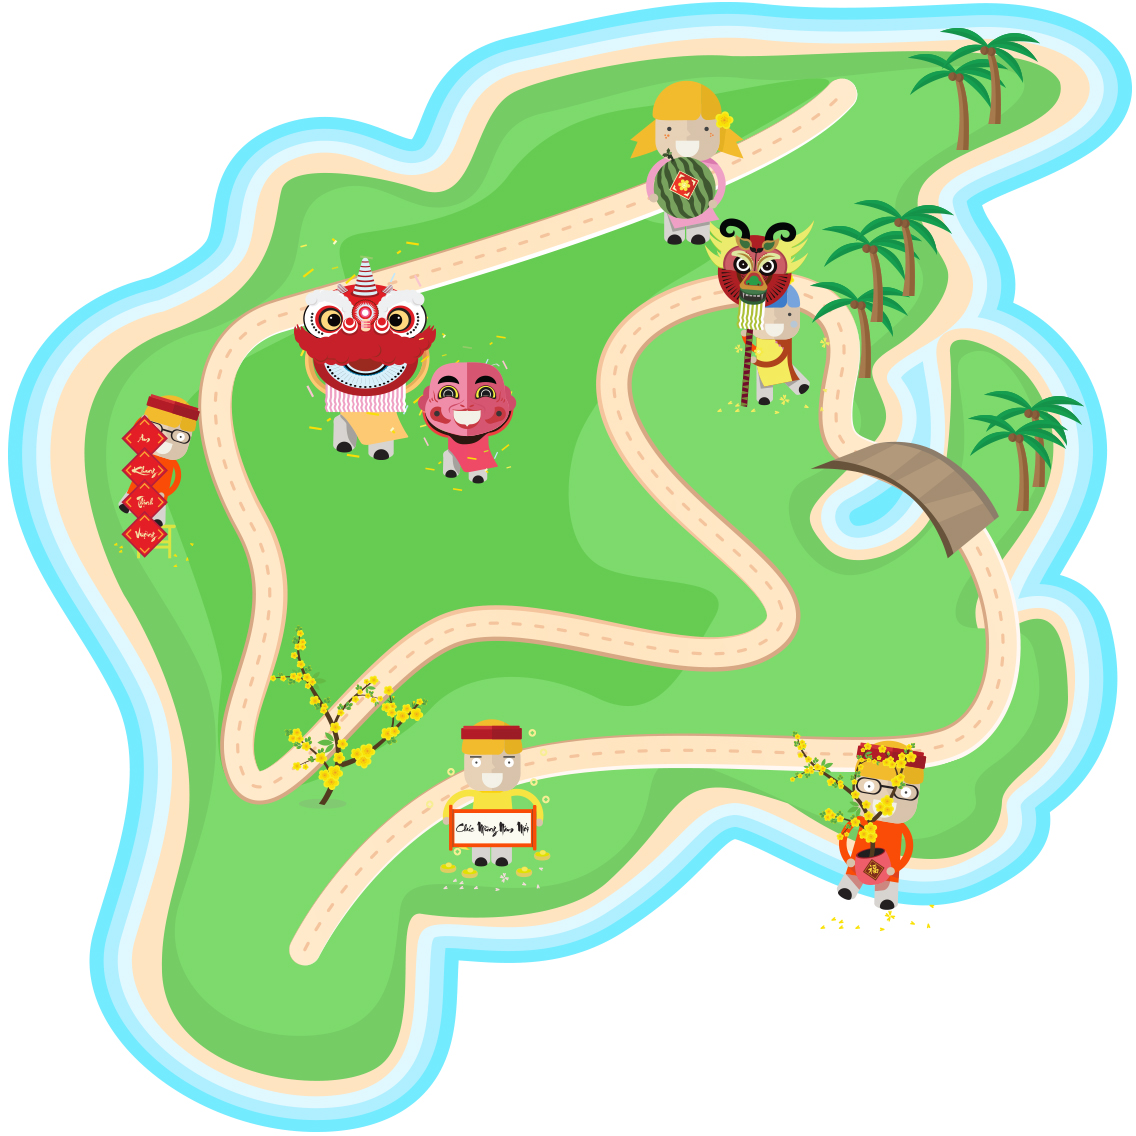
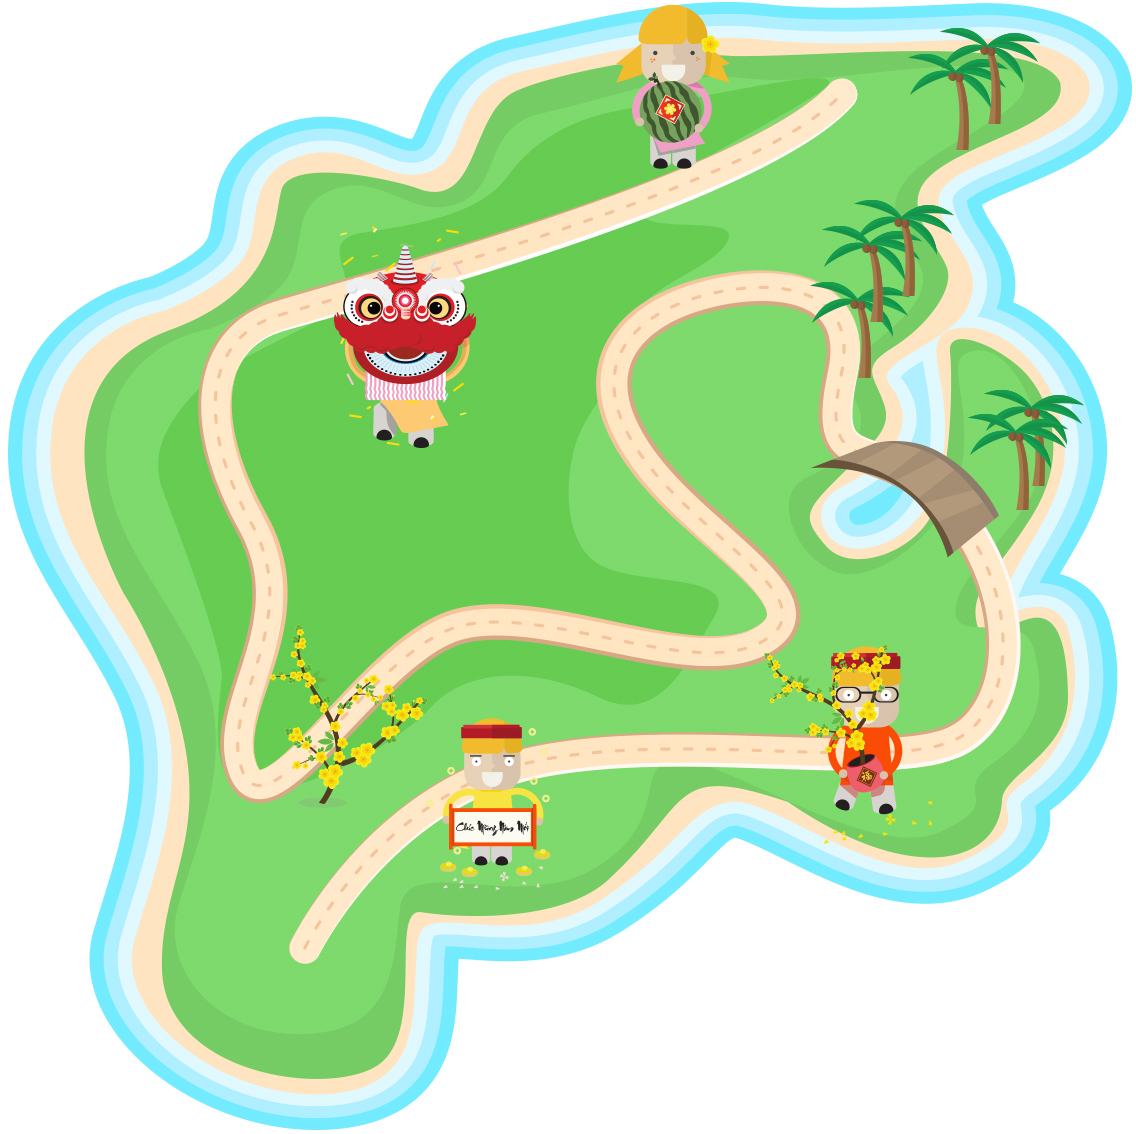
fix bug background and show modal congratulation

diff --git a/client/css/components/_page-game.scss b/client/css/components/_page-game.scss
@@ -233,6 +233,9 @@
 
 @media(max-width: 1000px) {
 	.game-play {
+		//width: 136%;
+		//margin-left: 18%;
+
 		width: 100%;
 	}
 
@@ -251,16 +254,17 @@
 
 	.game-intro-wrap {
 		width: 100%;
-		height: 10px;
+		position: absolute;
+		bottom: 0;
 	}
 
 	.button-controler {
 		position: absolute;
 		width: 150px;
 		height: 140px;
-		top: -128px;
 		display: inline-block;
 		right: 0;
+		bottom: 0;
 	}
 
 	.control-top, .control-left, .control-bottom, .control-right {
@@ -310,5 +314,26 @@
 
 	.intro-block-smartphone{
 		display: block;
+	}
+}
+
+@include media-query (palm) {
+
+	.game-play-mobile {
+		width: 136%;
+		margin-left: -18%;
+
+		//width: 100%;
+		height: 100%;
+		position: fixed;
+		top: 0;
+		left: 0;
+		&:after {
+			content: '';
+			display: inline-block;
+			vertical-align: middle;
+			margin-left: -5px;
+			height: 100%;
+		}
 	}
 }

diff --git a/client/templates/PageGame.js b/client/templates/PageGame.js
@@ -4,8 +4,9 @@
 var game = null;
 
 var completeGame = function(result) {
-	$('.modal-congratulation-level3').modal('show');
-	console.log('win result ' + result);
+	var mapLevel = Session.get('mapLevel');
+	$('.modal-congratulation-level'+mapLevel).modal('show');
+	console.log('win result ' + result, Session.get('mapLevel'));
 };
 
 Template.PageGame.rendered = function() {
@@ -23,7 +24,10 @@ Template.PageGame.helpers({
 		Meteor.call('map', mapId, function(error, result) {
 			//we parse the game and init the game
 			game = new window.chungapp.Game();
-			game.setJSONMapData(result, mapId);
+			game.setJSONMapData(result.map, mapId);
+			var mapLevel = result.mapLevel;
+			Session.set('mapLevel', mapLevel);
+
 			console.log('result', result);
 			game.startGame();
 

diff --git a/server/bootstrap.js b/server/bootstrap.js
@@ -18,8 +18,13 @@ Meteor.startup(function() {
 			}
 			var myJSON = JSON.parse(Assets.getText('maps/maps-config.json'));
 			if (myJSON && myJSON.maps && myJSON.maps[mapNumber].src) {
+				var mapLevel = myJSON.maps[mapNumber].mapLevel;
 				map = JSON.parse(Assets.getText(myJSON.maps[mapNumber].src));
-				return map;
+
+				return {
+					'map' : map,
+					'mapLevel' : mapLevel
+				};
 			}
 		}
 	});

diff --git a/client/css/custom/_page.game.scss b/client/css/custom/_page.game.scss
@@ -106,13 +106,24 @@
 		}
 	}
 
+	.map-grid {
+		width: 100%;
+		margin: auto;
+		display: inline-block;
+		vertical-align: middle;
+		position: relative;
+	}
+
 }
 
 @include media-query (palm) {
 
 	.map-grid {
-		width: 136%;
-		margin-left: -18%;
+		width: 100%;
+		margin: auto;
+		display: inline-block;
+		vertical-align: middle;
+		position: relative;
 		.social {
 			right: 15%;
 		}

diff --git a/client/css/components/_map-chosing.scss b/client/css/components/_map-chosing.scss
@@ -117,8 +117,12 @@
 }
 @include media-query (portable) {
 	.map-wrap {
-		width: 100%;
-		margin-top: 0;
+		width: 70%;
+
+		margin: auto;
+		display: inline-block;
+		vertical-align: middle;
+		position: relative;
 	}
 	.chose-round {
 		width: 14%;

diff --git a/client/templates/PageGame.html b/client/templates/PageGame.html
@@ -1,6 +1,9 @@
 <template name="PageGame">
 	<article class="game-play">
-		{{> gridMap}}
+		<div class="game-play-mobile">
+			{{> gridMap}}
+		</div>
+
 	</article>
 
 	<aside class="game-intro">

diff --git a/client/css/components/_footer.scss b/client/css/components/_footer.scss
@@ -21,7 +21,7 @@
 
 @include media-query (portable) {
 	.footer {
-		//position: absolute;
+		position: absolute;
 		bottom: 0;
 		padding-bottom: 20px;
 		right: 0;
